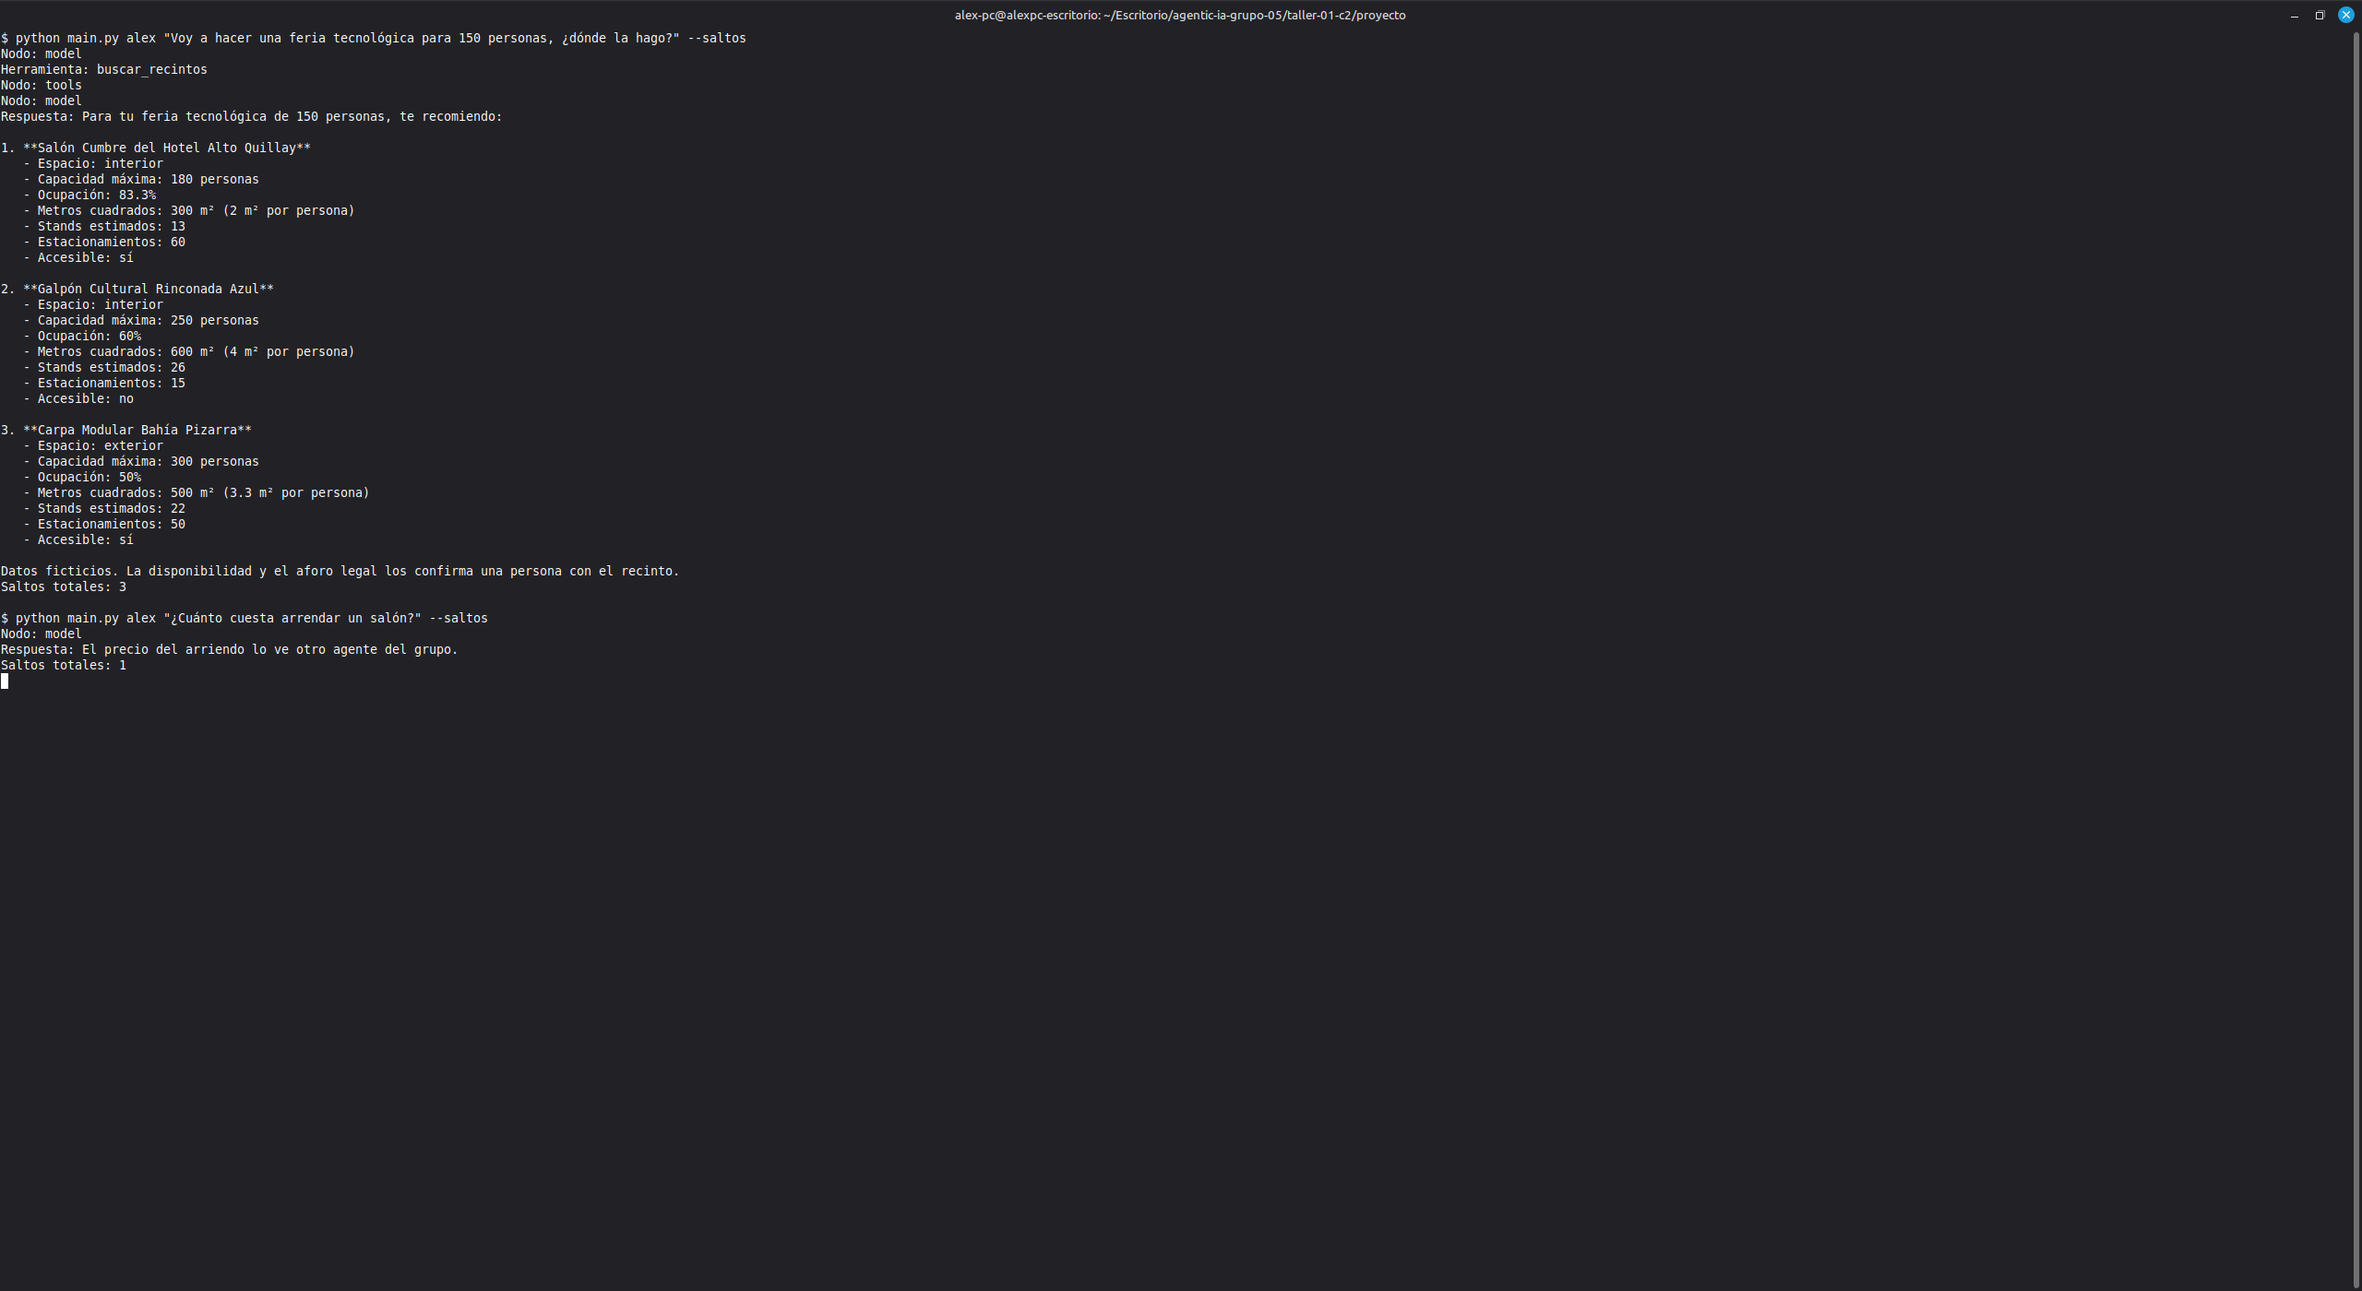
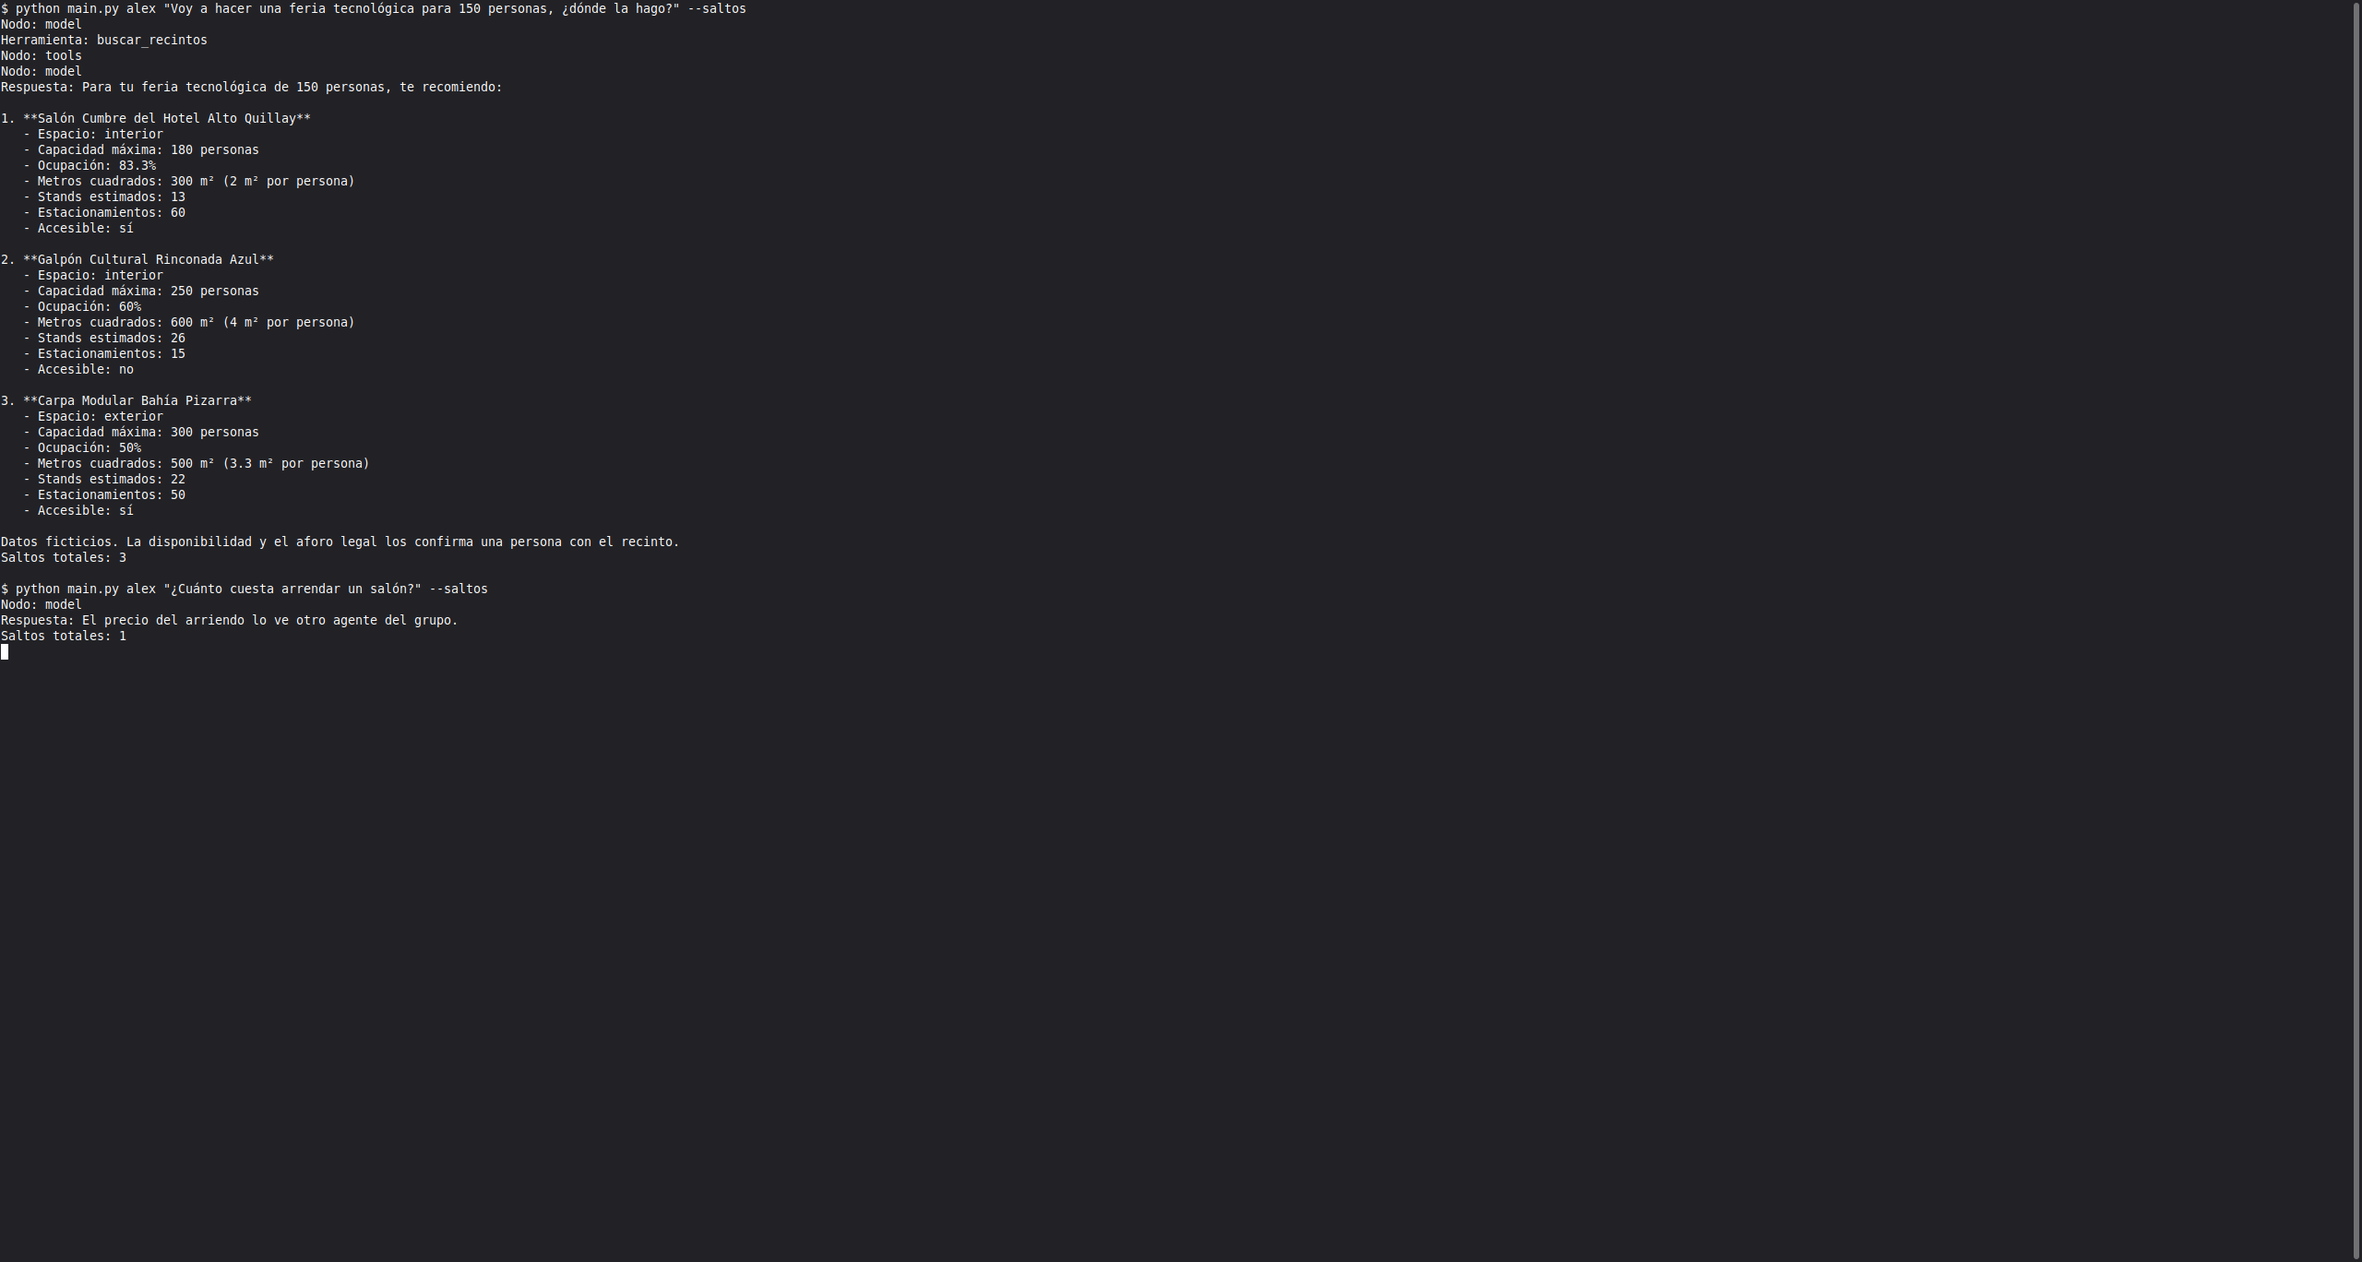
c2t1: análisis de la ronda y cierre de la entrega
- entrega/analisis-ronda.md: respuestas del grupo a las 3 preguntas de la ronda;
  armar_documento.py lo incluye y agrega un índice con números de página.
- documento-alex.md: qué cambiaría de mi ficha después de la ronda.
- blueprint-Eduardo.md: alineado con su ficha actual (PR #64).
- evidencias: matias/03-tunel.png con la IPv6 pública tapada; alex/01-saltos.png
  sin la barra de título con usuario y equipo.
- README del proyecto y PDF: explican la subcarpeta evidencias/NOMBRE/.
- probar_zip.sh: también corre python main.py coordinador --diagrama.

Changed region(s): [[0.0, 0.0, 0.3125, 0.5219], [0.4062, 0.0, 0.5938, 0.0307], [0.9688, 0.0, 1.0, 0.0307]]

diff --git a/taller-01-c2/entrega/armar_documento.py b/taller-01-c2/entrega/armar_documento.py
@@ -23,6 +23,7 @@ from pathlib import Path
 BASE = Path(__file__).resolve().parent.parent  # taller-01-c2/
 ENTREGA = BASE / "entrega"
 EVIDENCIAS = BASE / "evidencias"
+ANALISIS = ENTREGA / "analisis-ronda.md"  # respuestas del grupo a las 3 preguntas de la ronda
 SALIDA_MD = ENTREGA / "documento-entrega.md"
 SALIDA_PDF = ENTREGA / "documento-entrega.pdf"
 
@@ -39,6 +40,7 @@ _MESES = ["enero", "febrero", "marzo", "abril", "mayo", "junio", "julio", "agost
 
 _pendientes: list[str] = []
 _SALTO = '<div class="nueva-pagina"></div>\n\n'
+_INDICE = "<!-- INDICE -->"  # generar_pdf lo reemplaza por el índice con números de página
 
 
 def _pendiente(texto: str) -> str:
@@ -124,6 +126,9 @@ def armar_markdown(fecha: str) -> str:
         "</div>\n"
     )
 
+    # Índice (se arma en generar_pdf con los títulos ## del documento)
+    partes.append(_SALTO + _INDICE + "\n")
+
     # Identificación
     partes.append(_SALTO + "## Identificación\n")
     partes.append("**Grupo 5** · tema común: planificador de ferias y eventos.\n")
@@ -176,6 +181,9 @@ def armar_markdown(fecha: str) -> str:
         "- Los roles son `ROLE_USER` y `ROLE_AGENT`.\n"
         "- El texto de la respuesta viene en `result.message.parts`, no en `artifacts`.\n"
         "- `sse-starlette` se agregó a `requirements.txt`: sin ella el servidor A2A no arranca.\n\n"
+        "**Evidencias por integrante.** La pauta muestra una sola carpeta `evidencias/`; usamos "
+        "una subcarpeta por integrante (`evidencias/NOMBRE/`) porque los cuatro tienen archivos "
+        "con el mismo nombre (`01-saltos.png`, `02-ficha.json`, …).\n\n"
         "**Tildes en el celular.** En las capturas de la ficha abierta desde el teléfono las "
         "tildes se ven mal («tecnolÃ³gicas»): el servidor responde `content-type: application/json` "
         "sin declarar `charset=utf-8` y el navegador del teléfono interpreta el texto en otro "
@@ -238,13 +246,19 @@ def armar_markdown(fecha: str) -> str:
 
     # 7. Análisis
     partes.append("## 6. Análisis de la ronda\n")
-    for pregunta in (
-        "¿Qué ficha eligió mejor el supervisor y qué decía?",
-        "¿Hubo preguntas que dos agentes podían responder? ¿Cómo se resolvió?",
-        "¿Qué cambiaría cada uno de su ficha?",
-    ):
-        partes.append(f"### {pregunta}\n")
-        partes.append(_pendiente("se responde después de la ronda grupal"))
+    if ANALISIS.exists():
+        # Lo que diga «PENDIENTE: …» dentro del archivo sale como recuadro rojo.
+        analisis = re.sub(r"PENDIENTE: *(.+)", lambda m: _pendiente(m.group(1).strip()),
+                          ANALISIS.read_text(encoding="utf-8"))
+        partes.append(analisis)
+    else:
+        for pregunta in (
+            "¿Qué ficha eligió mejor el supervisor y qué decía?",
+            "¿Hubo preguntas que dos agentes podían responder? ¿Cómo se resolvió?",
+            "¿Qué cambiaría cada uno de su ficha?",
+        ):
+            partes.append(f"### {pregunta}\n")
+            partes.append(_pendiente("se responde después de la ronda grupal"))
 
     # 8. Uso de IA
     partes.append("## 7. Uso de herramientas de IA\n")
@@ -290,6 +304,13 @@ figure img { max-width: 100%; max-height: 19cm; border: 1px solid #ccc; }
 figcaption { font-size: 7.5pt; color: #555; margin-top: 3px; }
 .pendiente { border: 3px solid #c0161c; background: #fde8e8; color: #9b0d12; font-weight: bold;
              font-size: 11pt; padding: 10px 12px; margin: 10px 0; }
+.indice-titulo { font-size: 18pt; font-weight: bold; color: #12355b; border-bottom: 2px solid #12355b;
+                 padding-bottom: 3px; margin: 0 0 12px; }
+.indice ul { list-style: none; padding: 0; margin: 0; font-size: 11pt; }
+.indice li { margin: 7px 0; }
+.indice li.sub { margin-left: 1.6em; font-size: 10pt; }
+.indice a { color: #1a1a1a; text-decoration: none; }
+.indice a::after { content: leader('.') target-counter(attr(href), page); }
 .portada { text-align: center; padding-top: 5cm; }
 .portada .curso { font-size: 11pt; color: #555; }
 .portada .titulo { font-size: 30pt; margin: 0.6cm 0 0.2cm; border: none; }
@@ -298,6 +319,30 @@ figcaption { font-size: 7.5pt; color: #555; margin-top: 3px; }
 .portada .integrantes { font-size: 12pt; margin-top: 2.5cm; line-height: 1.8; }
 .portada .fecha { font-size: 11pt; margin-top: 1.5cm; color: #555; }
 """
+
+
+_entradas_indice: list[tuple[str, str]] = []
+
+
+def _anclar_titulos(cuerpo: str) -> str:
+    """Da un id a cada título principal (h2) para que el índice pueda apuntar a él."""
+    _entradas_indice.clear()
+
+    def anclar(m: re.Match) -> str:
+        ancla = f"sec-{len(_entradas_indice) + 1}"
+        _entradas_indice.append((ancla, m.group(1)))
+        return f'<h2 id="{ancla}">{m.group(1)}</h2>'
+
+    return re.sub(r"<h2>(.*?)</h2>", anclar, cuerpo)
+
+
+def _indice() -> str:
+    """Lista de títulos principales; las secciones 3.x (una por integrante) van con sangría."""
+    filas = []
+    for ancla, titulo in _entradas_indice:
+        clase = ' class="sub"' if re.match(r"3\.\d", titulo) else ""
+        filas.append(f'<li{clase}><a href="#{ancla}">{titulo}</a></li>')
+    return '<div class="indice"><p class="indice-titulo">Índice</p><ul>' + "".join(filas) + "</ul></div>"
 
 
 def generar_pdf(texto_md: str) -> bool:
@@ -310,6 +355,8 @@ def generar_pdf(texto_md: str) -> bool:
         return False
     # CommonMark con tablas: el mismo formato con que GitHub muestra los documentos.
     cuerpo = MarkdownIt("commonmark", {"html": True}).enable("table").render(texto_md)
+    cuerpo = _anclar_titulos(cuerpo)
+    cuerpo = cuerpo.replace(_INDICE, _indice())
     html = (
         '<!doctype html><html lang="es"><head><meta charset="utf-8">'
         f"<title>Taller A2A · Grupo 5</title><style>{_CSS}</style></head>"

diff --git a/taller-01-c2/entrega/analisis-ronda.md b/taller-01-c2/entrega/analisis-ronda.md
@@ -1,0 +1,55 @@
+### ¿Qué ficha eligió mejor el supervisor y qué decía?
+
+En la ronda grupal las 12 preguntas llegaron bien (12 de 12). Cada agente recibió la pregunta de su
+dueño y una del tema de otro compañero, y las cuatro preguntas «que nadie sabe» fueron a «ninguno».
+Como las cuatro fichas acertaron, elegimos la que funcionó con la pregunta más difícil: la de
+**Eduardo**. La pregunta de Alex «¿Cuánta plata necesito más o menos para una feria gastronómica de
+120 personas que dura 3 horas?» no dice «presupuesto» ni «costo», y aun así el supervisor la mandó a
+Eduardo con el motivo «La pregunta solicita una estimación de presupuesto y costos para un evento».
+En la ronda de Eduardo el motivo repite una palabra propia de su ficha: «estimación de un
+presupuesto simulado». La frase de la ficha que lo explica es: «Estima presupuestos agregados y
+simulados para ferias y eventos usando únicamente tarifas ficticias».
+
+### ¿Hubo preguntas que dos agentes podían responder? ¿Cómo se resolvió?
+
+Sí. En el ensayo general del 8 de noviembre (los 4 agentes en un computador) aparecieron dos casos.
+En ambos el supervisor eligió bien según la ficha, pero el prompt del agente contradecía su ficha y
+rechazaba la pregunta:
+
+- **Costo del catering (Eduardo y Sebastián).** «¿Cuánto cuesta el catering para 100 personas?» fue
+  a Eduardo porque es un costo, pero su prompt la mandaba a Sebastián, que no da precios: nadie la
+  respondía. Se corrigió en el PR #64. Ahora el prompt de Eduardo trata el costo de la comida como
+  consulta de costos y usa `estimar_presupuesto`. Su ficha pasó de «No prepara menús ni cotiza
+  catering» a «Incluye un costo de alimentación genérica por persona, pero no prepara menús
+  (Sebastián)». Qué menú servir sigue siendo de Sebastián.
+- **Hora del almuerzo (Sebastián y Matías).** «¿A qué hora conviene el almuerzo?» fue a Sebastián,
+  porque su ficha dice «con la hora de cada servicio». Pero su prompt la rechazaba como «horario de
+  actividades», que es tema de Matías. Se corrigió en el PR #65. Ahora el prompt de Sebastián dice
+  primero que cuándo servir la comida sí es su tema y después que el programa de actividades no lo
+  es. En la prueba de control pidió los datos en todos los intentos.
+
+En la ronda también hubo preguntas en el borde entre dos temas, y se resolvieron bien:
+
+- La de Eduardo sobre comida para 80 niños con 6 celíacos tocaba un tema que ahora también está en
+  su presupuesto. Como preguntaba qué servir y no cuánto cuesta, fue a Sebastián («propuesta de
+  comida con opciones específicas para celíacos»).
+- La de Sebastián sobre qué charlas o talleres hacer «y en qué orden» fue a Matías. Según
+  Sebastián, eso se debió a la frase de su ficha «no arma el programa de actividades».
+- La de Matías («¿qué actividades pongo y a qué hora?») fue a Matías, aunque la ficha de Sebastián
+  también habla de horas (Matías lo comenta abajo).
+
+### ¿Qué cambiaría cada uno de su ficha?
+
+- **Matias Muñoz:** su descripción usa «horario» sin precisar que es el de las actividades, y la
+  ficha de Sebastián también habla de «la hora de cada servicio» de comida. Precisaría «horario de
+  las actividades» y agregaría un ejemplo con público de estudiantes, porque el único que tiene es
+  de una feria infantil.
+- **Alex Nail:** La ficha funcionó: el supervisor me mandó las preguntas de recintos, incluida la de una feria con food trucks del ensayo, en la que el agente pidió la cantidad de personas antes de recomendar. Cambiaría dos cosas. Agregaría a la descripción que necesito tres datos (tipo de feria, cantidad de personas y si se prefiere interior o exterior), para que quien pregunta los dé de entrada. Y haría que el agente indique si un recinto permite servicio de comida (el dato ya está en mi catálogo, pero hoy no lo muestra), aclarando que qué servir es tema de Sebastián, porque esa es la frontera más cercana entre nuestros agentes.
+- **Eduardo Basaure:** haría más explícito que estima costos ficticios de alimentación genérica,
+  pero no propone menús ni cotiza proveedores reales, que corresponden a Sebastián. También
+  destacaría los tres datos necesarios para estimar un presupuesto: tipo de evento, cantidad de
+  asistentes y duración.
+- **Sebastian Mardones:** la ficha funcionó y el supervisor eligió bien sus tres preguntas. Dejaría
+  la frase «no arma el programa de actividades», porque es la que mandó la pregunta de charlas a
+  Matías. Le agregaría que también responde la hora de los servicios de comida, porque en el
+  ensayo ese tipo de pregunta se confundía con el horario de actividades.

diff --git a/taller-01-c2/blueprint-Eduardo.md b/taller-01-c2/blueprint-Eduardo.md
@@ -3,12 +3,12 @@
 | Qué definir        | Mi agente |
 |--------------------|-----------|
 | Quién soy          | Eduardo · especialista en presupuestos y costos simulados para ferias y eventos. |
-| Hace               | Estima costos agregados ficticios en CLP para eventos tecnológicos, gastronómicos, culturales e infantiles, de 10 a 500 personas y de 30 a 480 minutos. Informa partidas, subtotal, contingencia y total. |
+| Hace               | Estima costos agregados ficticios en CLP para eventos tecnológicos, gastronómicos, culturales e infantiles, de 10 a 500 personas y de 30 a 480 minutos. Informa partidas, subtotal, contingencia y total, e incluye un costo de alimentación genérica por persona. |
 | No hace            | No entrega precios reales ni cotizaciones, no define menús ni catering, no recomienda recintos, no arma actividades ni horarios y no autoriza compras, reservas, pagos ni contrataciones. Los impuestos no están modelados. |
 | Herramientas       | `estimar_presupuesto(tipo_evento, personas, duracion_minutos)`: calcula partidas con tarifas ficticias deterministas; redondea la duración a bloques de 30 minutos y la contingencia del 10 % hacia arriba al peso. Si los datos no son válidos, devuelve un motivo. |
 | Decide solo        | Cómo presentar la estimación y explicar sus supuestos, copiando exactamente las cifras entregadas por la herramienta y dejando claro que son simuladas. |
 | Nunca sin persona  | No autoriza compras, reservas, pagos ni contrataciones; no convierte estimaciones ficticias en compromisos ni cotizaciones. |
-| Deriva a otro      | Menús, comida y catering → Sebastián; recintos y capacidad → Alex; actividades y horarios → Matías. Rechaza cada consulta ajena en una sola frase, nombra al agente correspondiente y no ejecuta la herramienta. |
+| Deriva a otro      | Qué menú o qué comida servir → Sebastián; recintos y capacidad → Alex; actividades y horarios → Matías. Rechaza cada consulta ajena en una sola frase, nombra al agente correspondiente y no ejecuta la herramienta. |
 | Dónde se ejecuta   | `http://127.0.0.1:8005` · `src/agente_eduardo/` · `python main.py eduardo` |
 | Dirección pública  | `https://breaking-rid-bestsellers-juvenile.trycloudflare.com` (túnel temporal de Cloudflare verificado durante la sesión del 8 de noviembre de 2026; puede cambiar al reiniciar el túnel y no debe considerarse una dirección permanente). |
 

diff --git a/taller-01-c2/documento-alex.md b/taller-01-c2/documento-alex.md
@@ -331,6 +331,10 @@ Comentarios:
 3. Ningún agente sabe de vuelos. El supervisor eligió «ninguno» y el coordinador respondió
    con la lista de agentes disponibles, sin inventar una respuesta.
 
+### Qué cambiaría de mi ficha después de la ronda
+
+La ficha funcionó: el supervisor me mandó las preguntas de recintos, incluida la de una feria con food trucks del ensayo, en la que el agente pidió la cantidad de personas antes de recomendar. Cambiaría dos cosas. Agregaría a la descripción que necesito tres datos (tipo de feria, cantidad de personas y si se prefiere interior o exterior), para que quien pregunta los dé de entrada. Y haría que el agente indique si un recinto permite servicio de comida (el dato ya está en mi catálogo, pero hoy no lo muestra), aclarando que qué servir es tema de Sebastián, porque esa es la frontera más cercana entre nuestros agentes.
+
 Preguntas para comentar: ¿qué ficha eligió mejor el supervisor y qué decía?, ¿hubo una
 pregunta que dos agentes podrían responder y cómo se resolvió?, ¿qué cambiarían de su ficha?
 

diff --git a/taller-01-c2/proyecto/README.md b/taller-01-c2/proyecto/README.md
@@ -35,7 +35,9 @@ Las direcciones públicas y las fichas están en `compañeros.md`, junto a esta 
 - `scripts/`: túnel de Cloudflare (`tunel.sh`, `tunel.ps1`) y scripts de verificación.
 
 Junto a `proyecto/` (en la raíz de la entrega) van los `blueprint-NOMBRE.md`,
-`compañeros.md`, `evidencias/NOMBRE/` y el `documento-entrega.pdf`.
+`compañeros.md`, `evidencias/NOMBRE/` y el `documento-entrega.pdf`. La pauta muestra una sola
+carpeta `evidencias/`; usamos una subcarpeta por integrante porque los cuatro tienen archivos
+con el mismo nombre (`01-saltos.png`, `02-ficha.json`, …).
 
 ## Instalación
 
